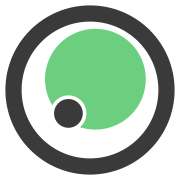
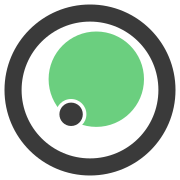
feat: mejorar icono Migrin y renombrar app a Control P&P LP

diff --git a/src/app/layout.tsx b/src/app/layout.tsx
@@ -7,8 +7,8 @@ import { Providers } from "@/components/Providers";
 const inter = Inter({ subsets: ["latin"] });
 
 export const metadata: Metadata = {
-  title: "Arena Control – Planta Las Piedras",
-  description: "Control de producción y volúmenes",
+  title: "Control P&P LP",
+  description: "Control de Producción y Productividad – Planta Las Piedras",
   manifest: "/manifest.json",
   icons: {
     icon: [